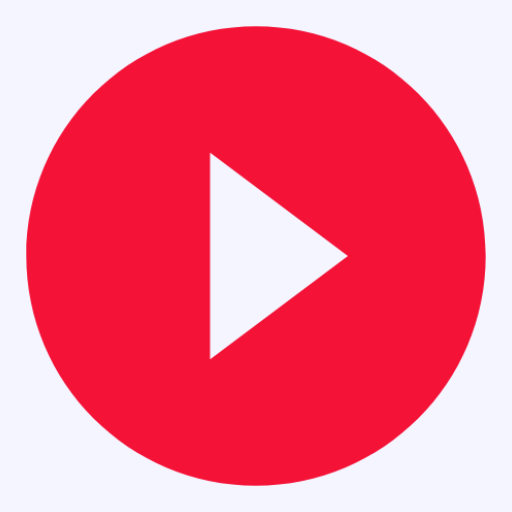
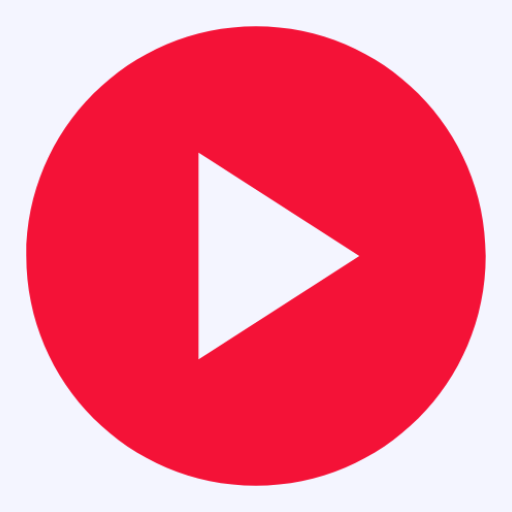
Feb 15, 2023
+ modify play button (activity_movie)
+ add animation when expand/collapse plot summary (activity_movie)

diff --git a/app/src/main/java/fpt/edu/layout_exercise/MovieActivity.java b/app/src/main/java/fpt/edu/layout_exercise/MovieActivity.java
@@ -4,7 +4,12 @@ import android.app.Dialog;
 import android.net.Uri;
 import android.os.Bundle;
 import android.text.Html;
-import android.view.Window;
+import android.transition.AutoTransition;
+import android.transition.ChangeBounds;
+import android.transition.ChangeTransform;
+import android.transition.Transition;
+import android.transition.TransitionManager;
+import android.view.ViewGroup;
 import android.view.WindowManager;
 import android.widget.Button;
 import android.widget.TextView;
@@ -14,12 +19,13 @@ import androidx.appcompat.app.AppCompatActivity;
 
 public class MovieActivity extends AppCompatActivity {
 
-    static final int COLLAPSED_PLOT_END_INDEX = 235;
+    static final int COLLAPSED_PLOT_LENGTH = 235;
     static final String COLLAPSED_PLOT_SUFFIX = " More";
     static final String COLLAPSED_PLOT_SUFFIX_COLOR = "#a33747";
 
     TextView tvPlot;
     Button btnPlay;
+    ViewGroup llMovieInfo;
 
     @Override
     protected void onCreate(Bundle savedInstanceState) {
@@ -32,9 +38,7 @@ public class MovieActivity extends AppCompatActivity {
 
         this.collapsePlot(tvPlot, plot);
 
-        tvPlot.setOnClickListener(view -> {
-            this.expandAndCollapsePlot(tvPlot, plot);
-        });
+        tvPlot.setOnClickListener(view -> this.expandAndCollapsePlot(tvPlot, plot));
 
 //        open trailer modal dialog
         btnPlay = findViewById(R.id.btnPlay);
@@ -42,9 +46,7 @@ public class MovieActivity extends AppCompatActivity {
     }
 
     private void collapsePlot(TextView textView, String str) {
-        tvPlot.setText(str);
-
-        CharSequence collapsedPlotCharSequence = textView.getText().subSequence(0, COLLAPSED_PLOT_END_INDEX);
+        CharSequence collapsedPlotCharSequence = str.subSequence(0, COLLAPSED_PLOT_LENGTH);
 
 //        suffix with different color
         String suffix = "<font color=" + COLLAPSED_PLOT_SUFFIX_COLOR + ">" + COLLAPSED_PLOT_SUFFIX + "</font>";
@@ -58,6 +60,13 @@ public class MovieActivity extends AppCompatActivity {
     }
 
     private void expandAndCollapsePlot(TextView textView, String str) {
+        Transition transition = new AutoTransition();
+        transition.setDuration(300);
+
+//        transition
+        llMovieInfo = findViewById(R.id.llMovieInfo);
+        TransitionManager.beginDelayedTransition(llMovieInfo, transition);
+
         if (textView.getText().toString().endsWith(COLLAPSED_PLOT_SUFFIX)) {
             this.expandPlot(textView, str);
         } else {
@@ -79,5 +88,4 @@ public class MovieActivity extends AppCompatActivity {
         videoview.setVideoURI(uri);
         videoview.start();
     }
-
 }
